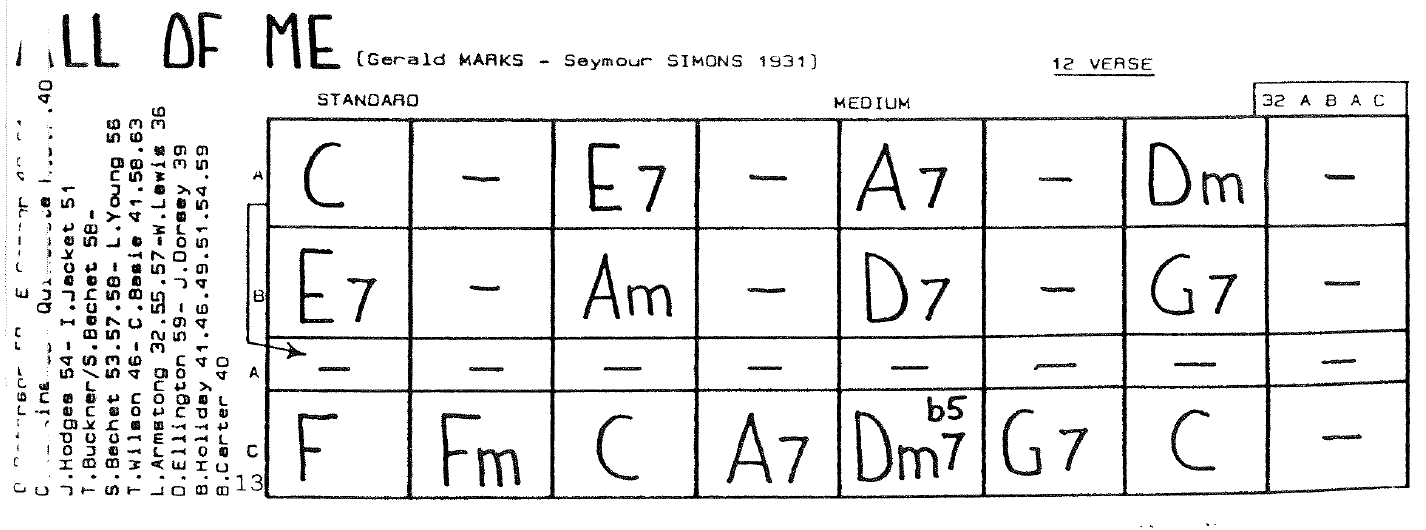
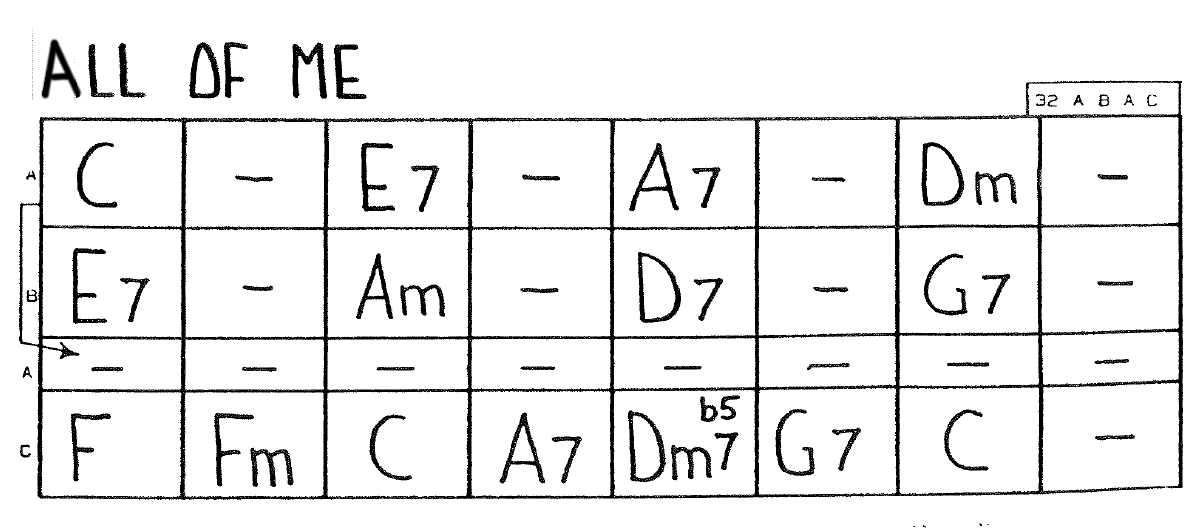
Update

Changed region(s): [[0.0, 0.0, 1.0, 0.966], [0.4012, 0.0906, 0.5863, 0.1509], [0.7406, 0.0906, 0.8023, 0.1509]]

diff --git a/PITCHME.md b/PITCHME.md
@@ -21,15 +21,13 @@ Note:
 
 ---
 
-## Chords charts?
+## What's a song?
 
-- `song = melody + chords` in a tonality
+- `song = melody + chords`
 - applies to rock, blues, jazz, folk
-- transposing is changing tonality
 
 Note:
 - when I want to play a song, besides the melody, I need chords
-  - rock, blues, jazz, folk – same principle!
 
 +++
 
@@ -37,7 +35,7 @@ Note:
 
 ![Guitar chords](assets/guitar-chords.jpg)
 
-We'll just keep the "letters"
+Just keep the *letters*
 
 +++
 
@@ -54,6 +52,14 @@ Note:
 - does not include the melody
 - I'd like the transpose feature: change the tonality dynamically
 - Can't to that with images or plain text
+
++++
+
+## Transpose
+
+### What if we play in `G`?
+
+![All of me](assets/all-of-me-interrogation-points.png)
 
 +++
 
@@ -75,6 +81,12 @@ Means "F minor"
 - difficult to achieve while playing
 
 `$$transpose(C, 1) \to D$$`
+
+`$$transpose(Fm, 1) \to Gm$$`
+
+Note:
+- the quality of a chord does not change
+- let's focus on transposing notes
 
 ---
 
